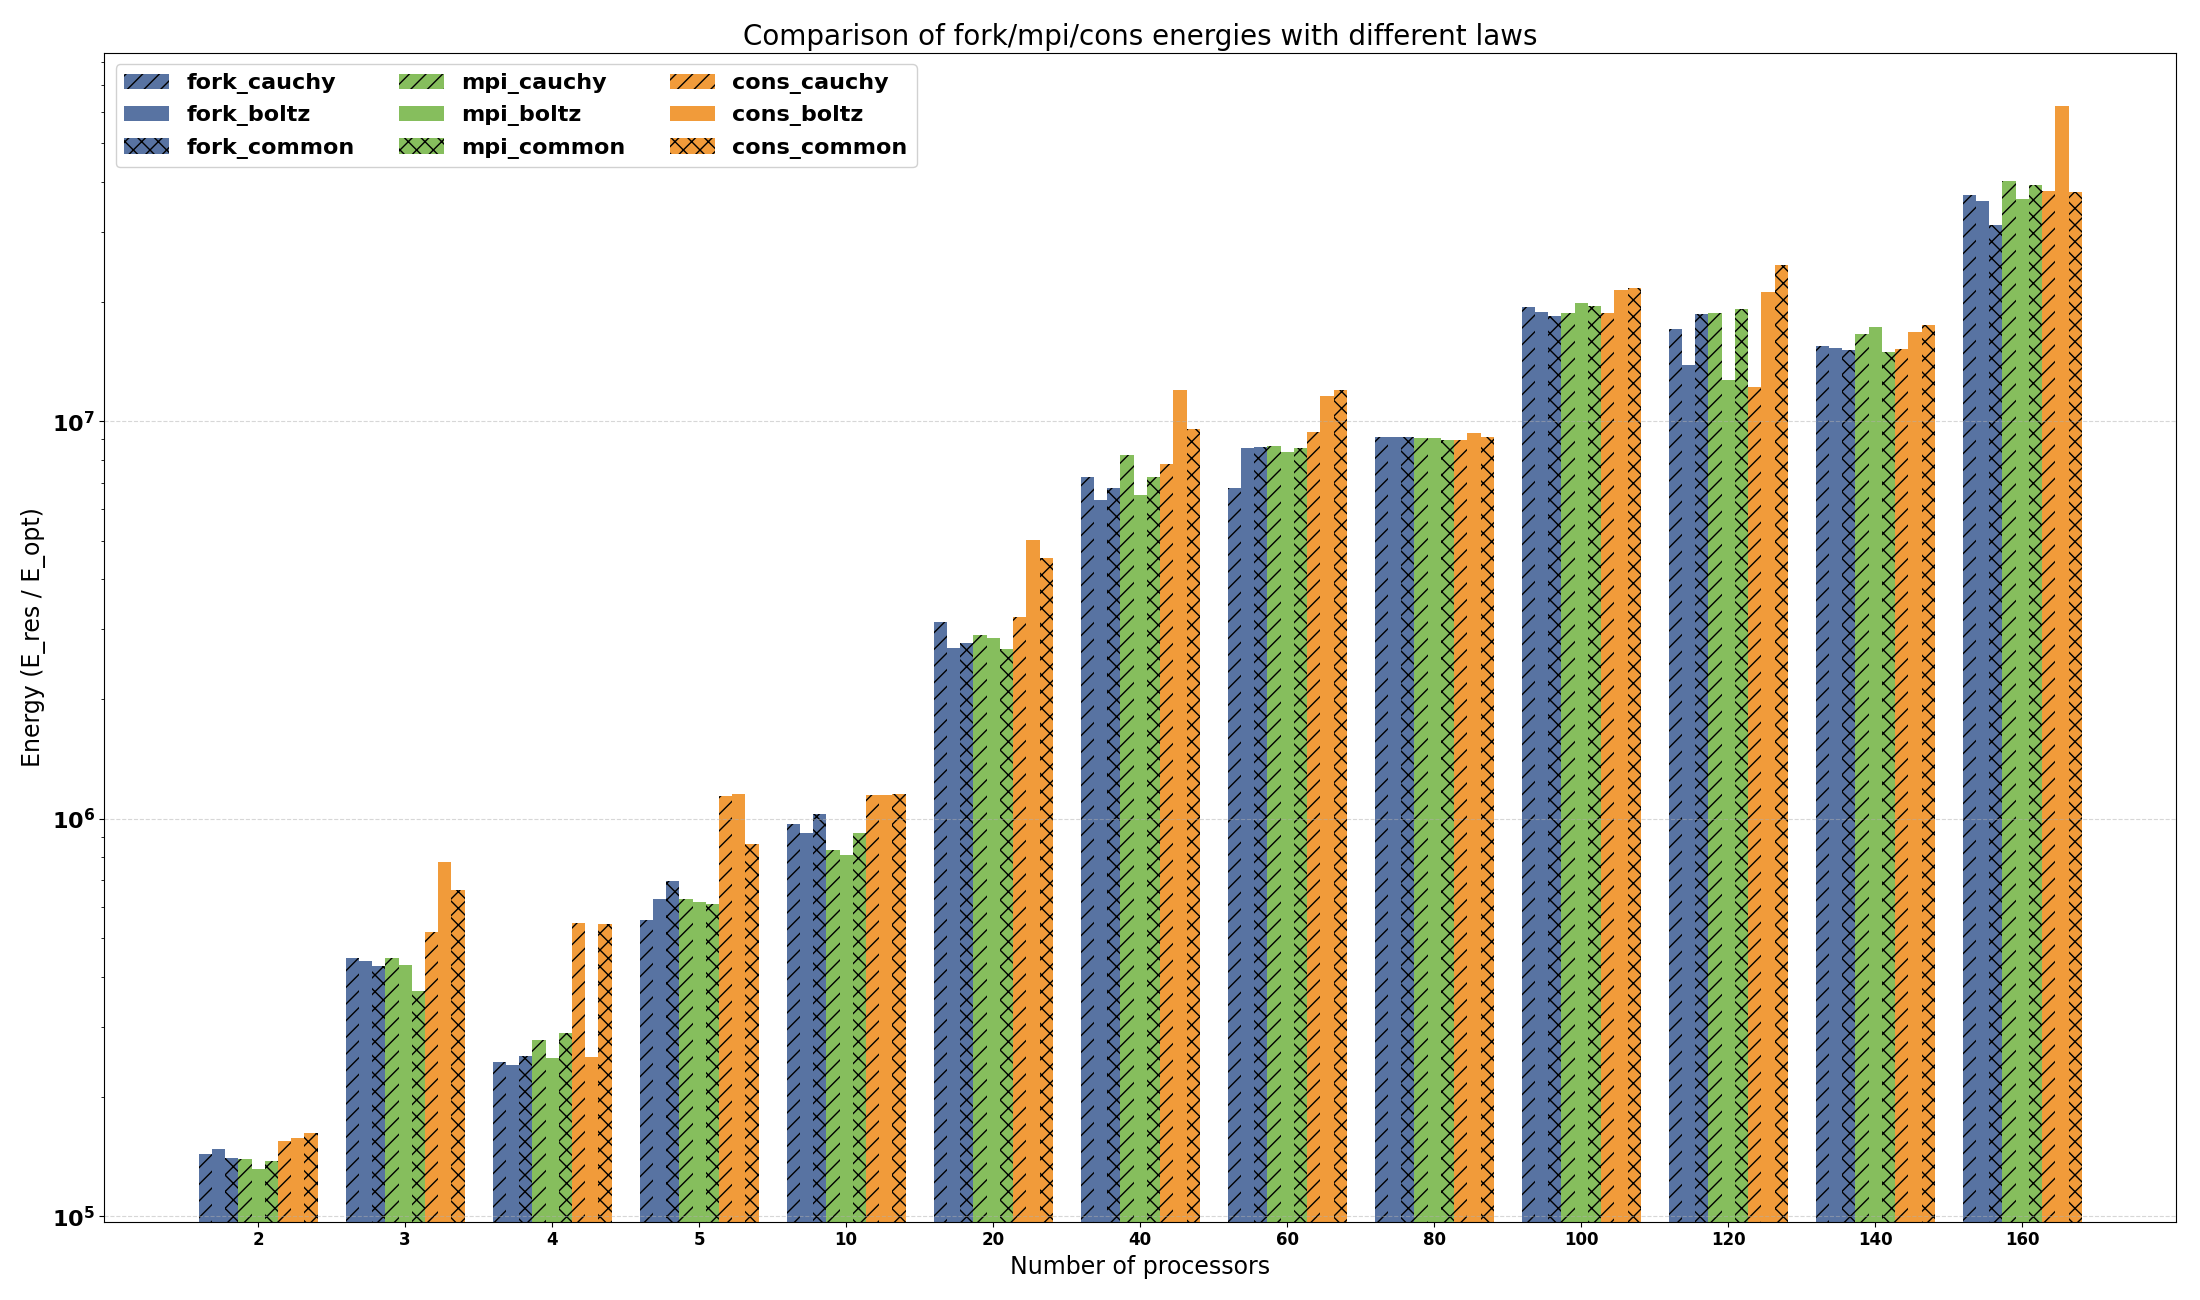
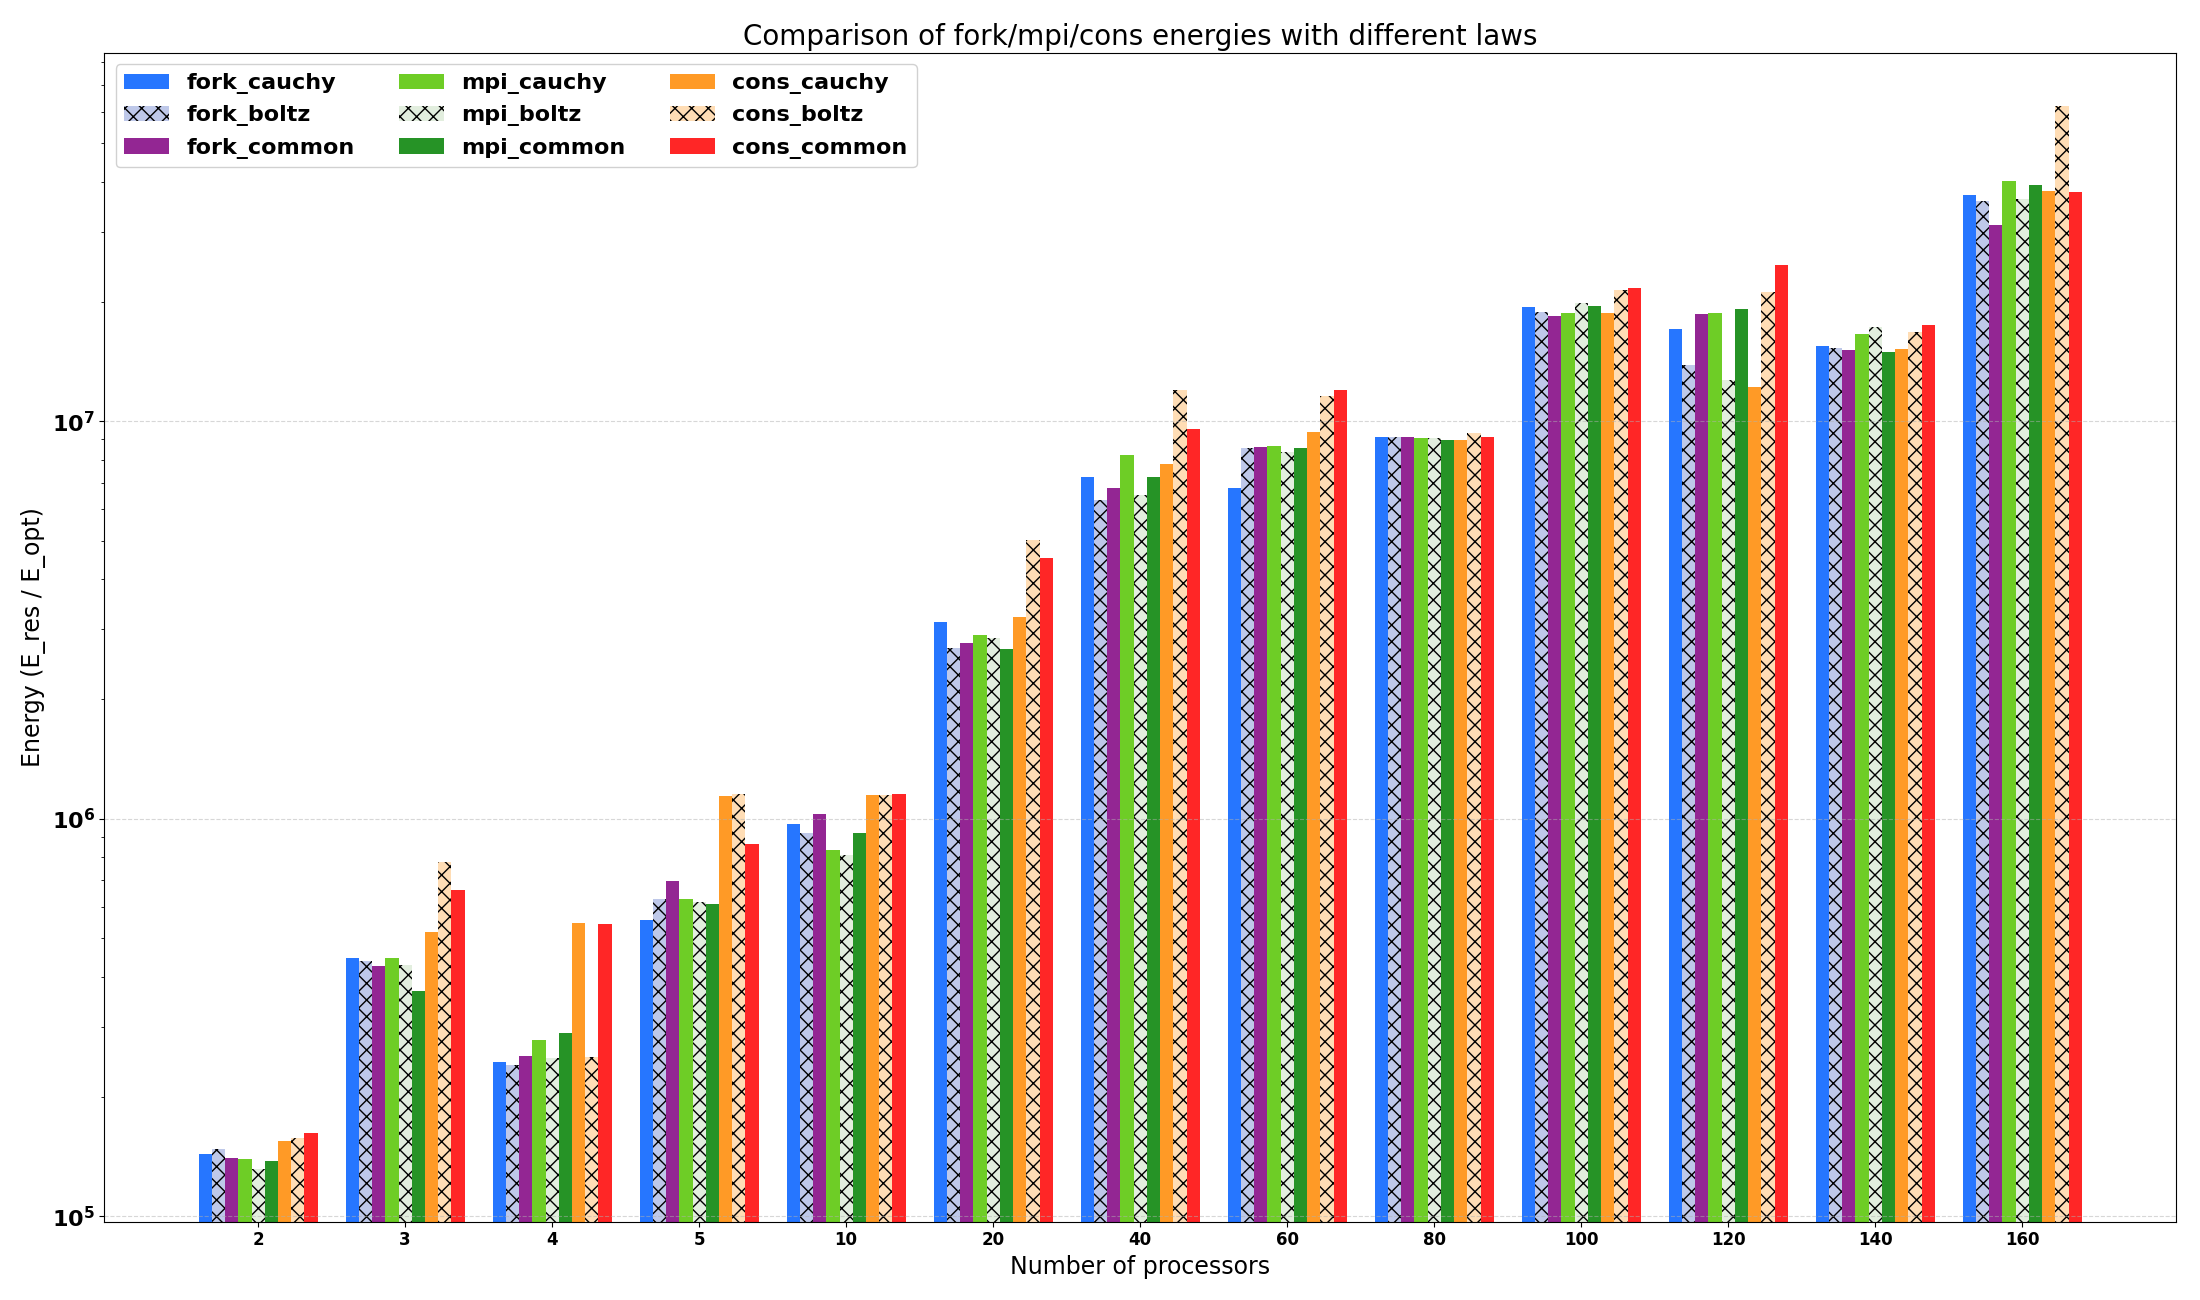
Fix visuability

diff --git a/compare.py b/compare.py
@@ -377,20 +377,19 @@ if __name__ == "__main__":
         plt.grid(axis='y', linestyle='--', alpha=0.5)
 
         # fork - разные цвета, hatch
-        plt.bar(x - 4*bar_width, fork_1, width=bar_width, label='fork_cauchy', color='#3b5b92', hatch='//', alpha=0.85)
-        plt.bar(x - 3*bar_width, fork_2, width=bar_width, label='fork_boltz', color='#3b5b92', hatch='', alpha=0.85)
-        plt.bar(x - 2*bar_width, fork_3, width=bar_width, label='fork_common', color='#3b5b92', hatch='xx', alpha=0.85)
+        plt.bar(x - 4*bar_width, fork_1, width=bar_width, label='fork_cauchy', color="#005eff", hatch='', alpha=0.85)
+        plt.bar(x - 3*bar_width, fork_2, width=bar_width, label='fork_boltz', color='#b3bfe6', hatch='xx', alpha=0.85)
+        plt.bar(x - 2*bar_width, fork_3, width=bar_width, label='fork_common', color='purple', hatch='', alpha=0.85)
 
         # mpi - другой цвет
-        plt.bar(x - bar_width, mpi_1, width=bar_width, label='mpi_cauchy', color='#71b340', hatch='//', alpha=0.85)
-        plt.bar(x, mpi_2, width=bar_width, label='mpi_boltz', color='#71b340', hatch='', alpha=0.85)
-        plt.bar(x + bar_width, mpi_3, width=bar_width, label='mpi_common', color='#71b340', hatch='xx', alpha=0.85)
+        plt.bar(x - bar_width, mpi_1, width=bar_width, label='mpi_cauchy', color="#55c500", hatch='', alpha=0.85)
+        plt.bar(x, mpi_2, width=bar_width, label='mpi_boltz', color='#ddebd9', hatch='xx', alpha=0.85)
+        plt.bar(x + bar_width, mpi_3, width=bar_width, label='mpi_common', color='green', hatch='', alpha=0.85)
 
         # cons - ещё другой цвет
-        plt.bar(x + 2*bar_width, cons_1, width=bar_width, label='cons_cauchy', color='#ef8a17', hatch='//', alpha=0.85)
-        plt.bar(x + 3*bar_width, cons_2, width=bar_width, label='cons_boltz', color='#ef8a17', hatch='', alpha=0.85)
-        plt.bar(x + 4*bar_width, cons_3, width=bar_width, label='cons_common', color='#ef8a17', hatch='xx', alpha=0.85)
-
+        plt.bar(x + 2*bar_width, cons_1, width=bar_width, label='cons_cauchy', color="#ff8800", hatch='', alpha=0.85)
+        plt.bar(x + 3*bar_width, cons_2, width=bar_width, label='cons_boltz', color='#ffd8a8', hatch='xx', alpha=0.85)
+        plt.bar(x + 4*bar_width, cons_3, width=bar_width, label='cons_common', color='red', hatch='', alpha=0.85)
         plt.yscale('log')
         
         plt.xlabel('Number of processors', fontsize=17)
